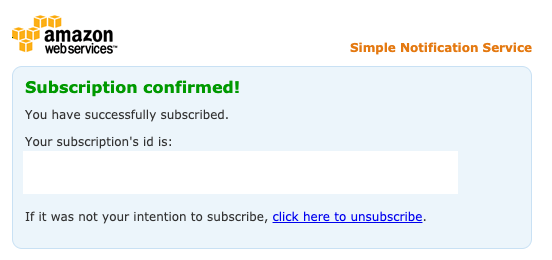
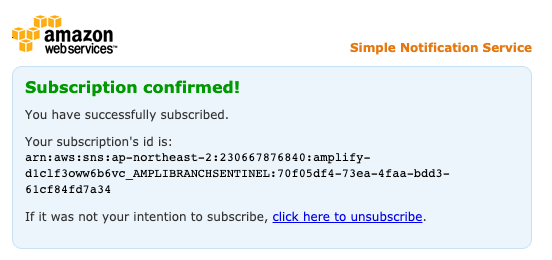
rebuilding site 2021년 6월 23일 수요일 21시 14분 04초 KST

Changed region(s): [[0.0308, 0.5846, 0.8315, 0.7692]]

diff --git a/index.html b/index.html
@@ -94,7 +94,7 @@
 
         <div class="article-text"><div class="content summary-content">AWS Amplify Console에서 배포시 슬랙으로 알림을 받아보는 방법을 작성해보려고한다.
 현재 AWS Amplify Console User Guide 을 보면 이메일 알림을 기본적으로 제공하고, 이를통해 만들어진 SNS 주제를 통해 Slack과 같은 다른 도구에 알림을 보내는 데 활용할 수 있다.
-email notification 생성 Amplify 콘솔을 연다. 이메일 알림을 설정할 앱을 선택합니다.   </div></div>
+email notification 생성 Amplify 콘솔을 연다. Email 알림을 설정할 앱을 선택합니다. App settings &gt; Notifications &gt; Manage notifications 을 클릭한다.  알림을 받을 Email을 입력하고, 배포 알림을 받을 대상 브랜치를 선택 후 Save한다.  Notifications 페이지로 돌아오면, &ldquo;We Sent you an email to confirm subscriptions, please click on the link in the email to start receiving notifications.</div></div>
     </div>
 
     <div class="post-tags-summary-under-footer"><footer>
